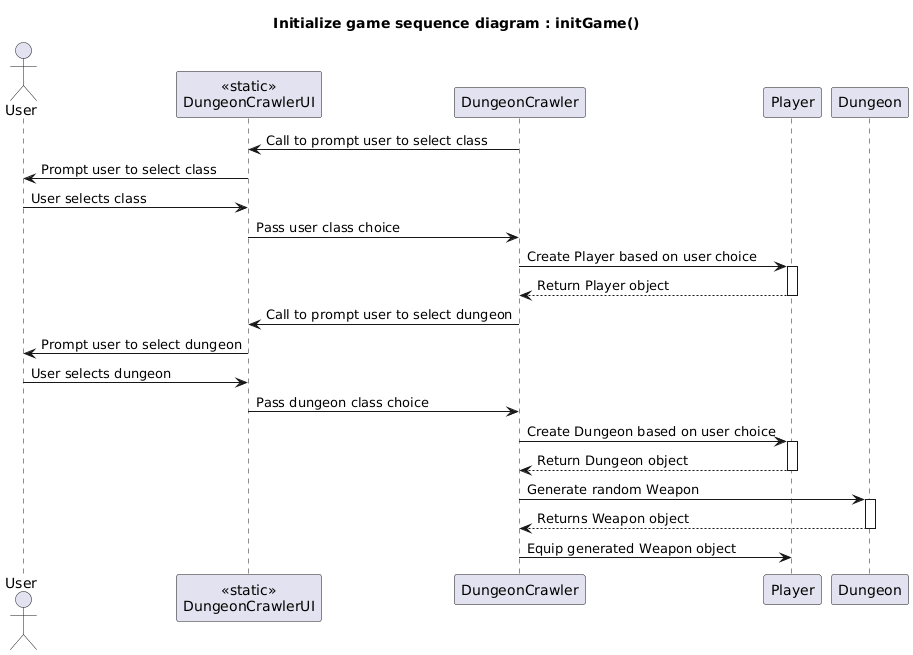
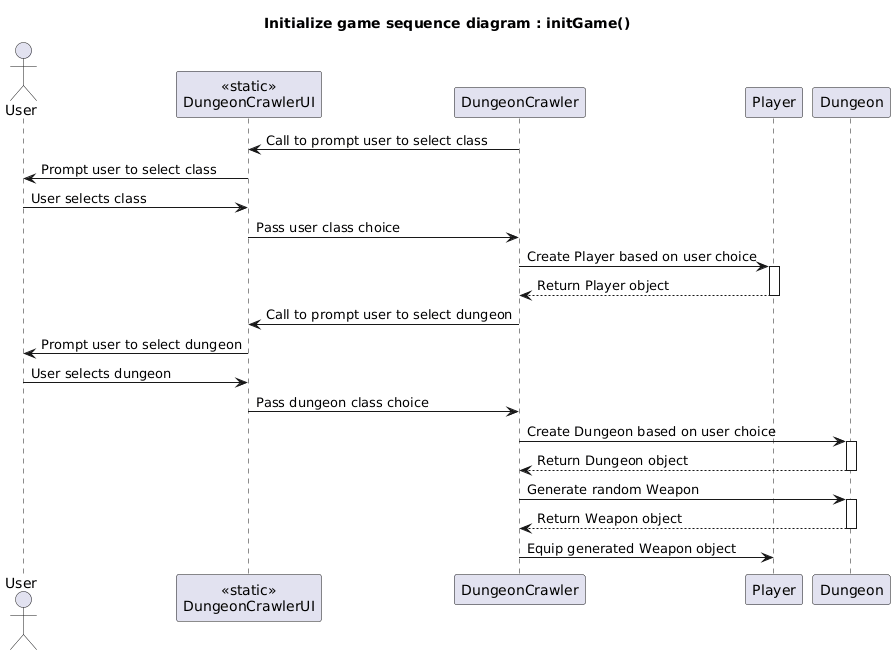
Add how to play to README, Update sequence diagram

diff --git a/README.md b/README.md
@@ -2,12 +2,37 @@
 Week 2 of my IT-course focused on OOP Java, so I made this small Dungeon Crawler sim/game
 (heavily inspired by [Dark and Darker](https://store.steampowered.com/app/2016590)).
 
+## How to run the game
+NOTE: This project was built and tested using Oracle OpenJDK 25
+### IntelliJ
+1. Clone the repository.
+2. Goto **File** -> **Open** -> Select **DungeonCrawler**
+3. If your IDE doesn't automatically recognize the `lib` directory, goto **File** -> **Project structure...** ->
+**Libraries** -> Hit the `+` and add the `json-20240303.jar`
+4. Run from `Main.java`
+### Visual Studio Code / VSCode
+1. Clone the repository.
+2. Goto **File** -> **Open Folder...** -> Select **DungeonCrawler**
+3. Create a new directory in root called `.vscode` and inside of it create a `settings.json`
+4. Paste the following content to the `settings.json`:
+```json
+{
+    "java.project.sourcePaths": [
+        "src"
+    ],
+    "java.project.referencedLibraries": [
+        "lib\\json-20240303.jar"
+    ]
+}
+```
+5. Run from `Main.java`
 ## The game
-Progress through the dungeon by looting, equipping and slaying monsters!
+Progress through the dungeon by looting and slaying monsters (currently only skeletons)!
 
+There is currently no win condition game ends (read: crashes) when you progress through all generated modules.
 ## Missing features
 The game is now runnable and somewhat playable, here is alist of missing features:
-* [ ] Update win condition - currently none
+* [ ] Update win condition
 * [x] Make Strength affect damage dealt by player
 * [ ] Introduce Altars to post combat (give status effect for next combat encounter, Will cost)
 * [ ] Introduce Dodge, Miss and Crit to combat encounter
